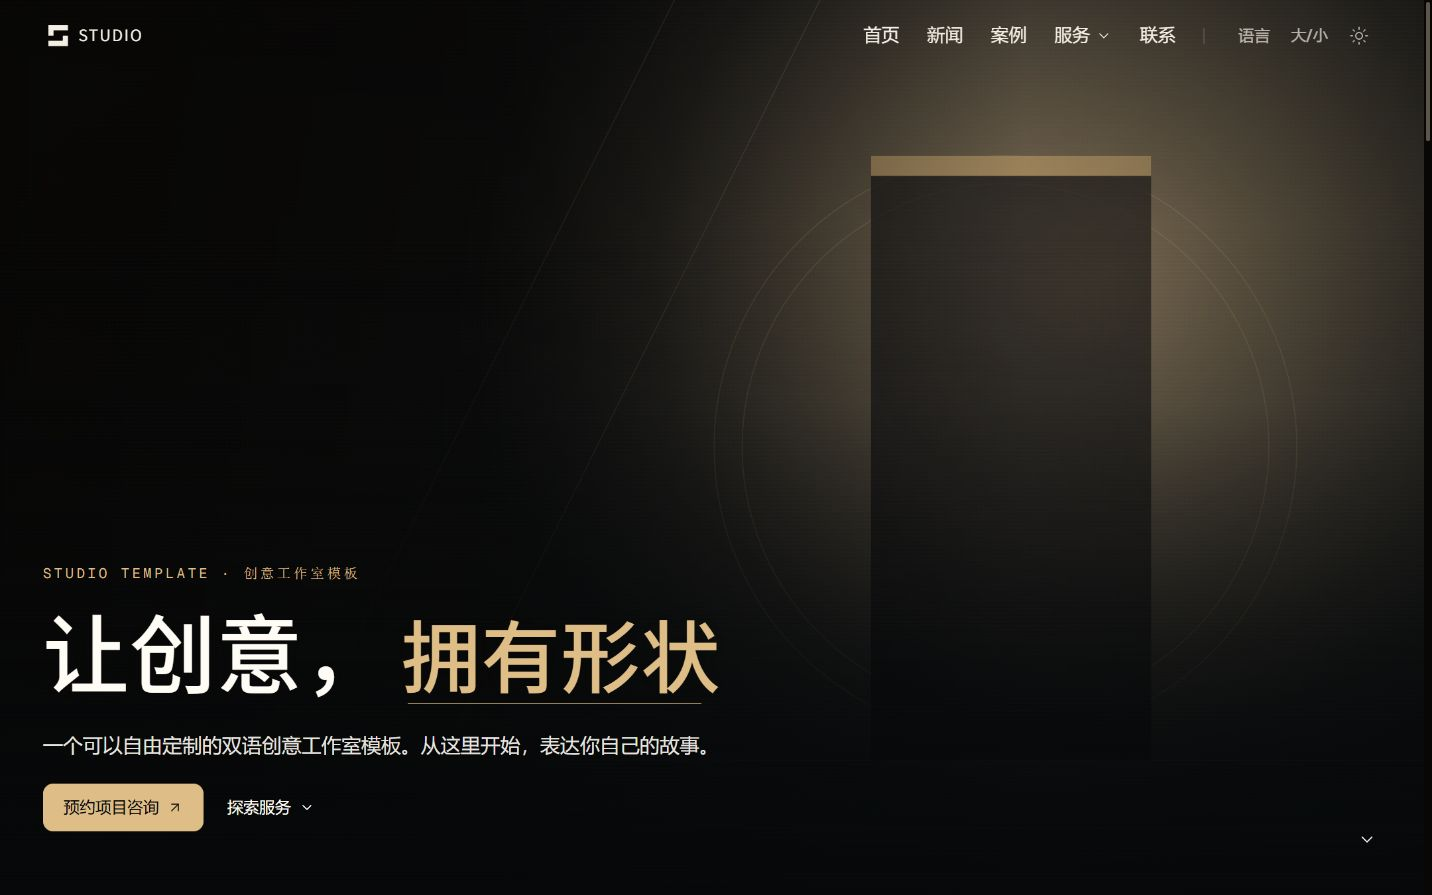
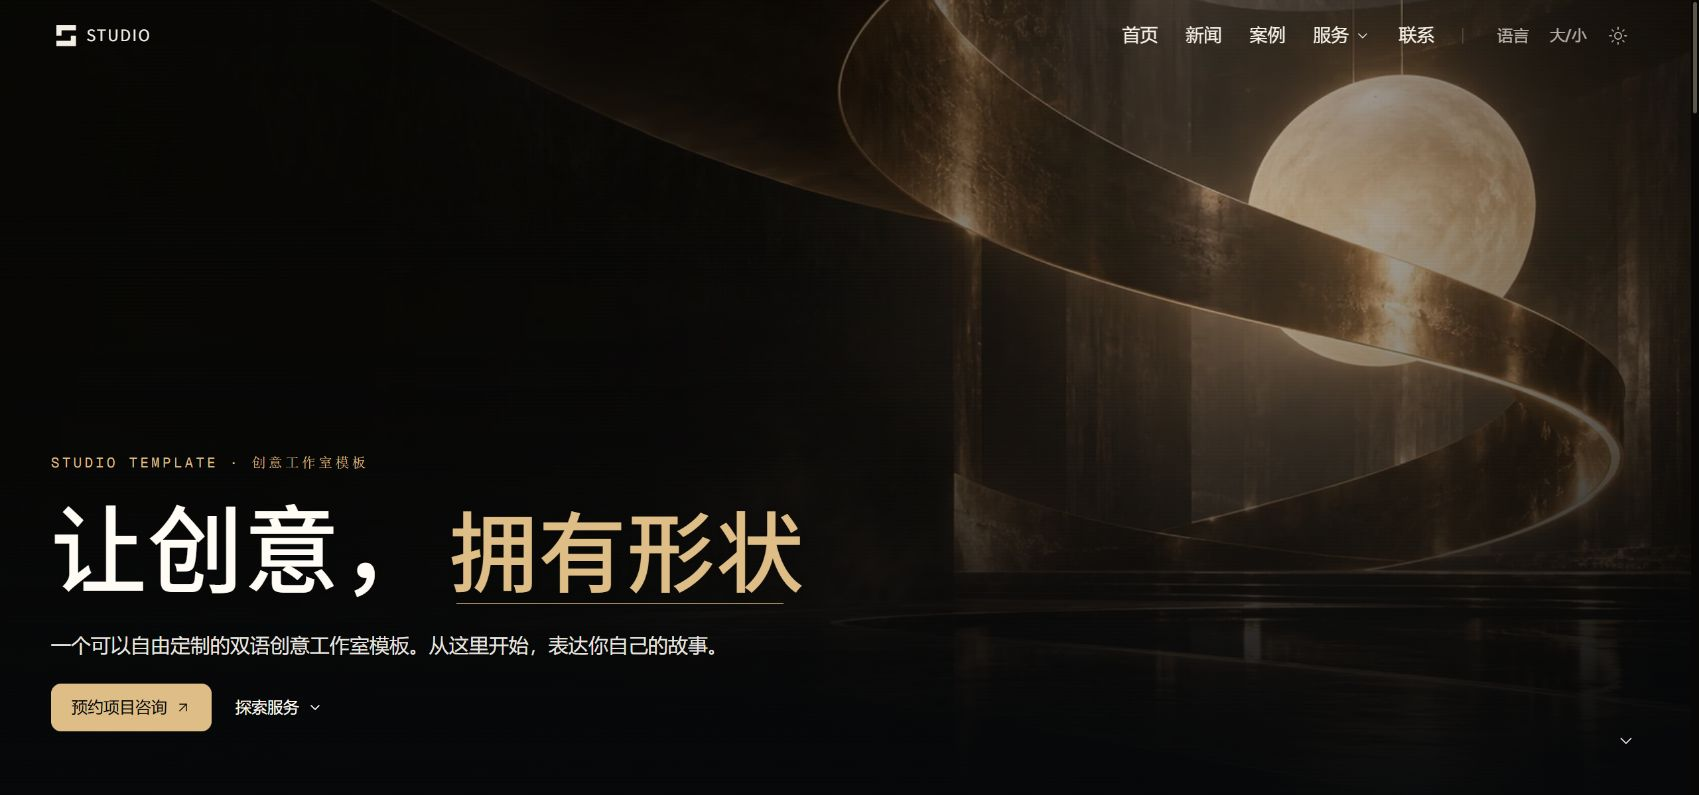
Replace placeholders with generated studio artwork

diff --git a/lib/i18n.ts b/lib/i18n.ts
@@ -92,7 +92,7 @@ export const messages = {
       title: "让每种视角，\n形成创作的合力",
       description: "在这个区域介绍你的团队与协作方式。下方资料仅用于演示展示框架。",
       selectedWorks: "代表作品",
-      people: {"creator1":{"name":"创意方向 · 示例","role":"团队展示模板","description":"在这里介绍团队职责与创作方法。此资料仅用于演示页面布局。","imageAlt":"抽象团队展示插画","works":[]},"creator2":{"name":"视觉设计 · 示例","role":"团队展示模板","description":"在这里介绍团队职责与创作方法。此资料仅用于演示页面布局。","imageAlt":"抽象团队展示插画","works":[]},"creator3":{"name":"制作协作 · 示例","role":"团队展示模板","description":"在这里介绍团队职责与创作方法。此资料仅用于演示页面布局。","imageAlt":"抽象团队展示插画","works":[]}},    },
+      people: {"creator1":{"name":"创意方向 · 示例","role":"团队展示模板","description":"在这里介绍团队职责与创作方法。此资料仅用于演示页面布局。","imageAlt":"光影中漂浮的金色织物与沙丘，AI 生成示例","works":[]},"creator2":{"name":"视觉设计 · 示例","role":"团队展示模板","description":"在这里介绍团队职责与创作方法。此资料仅用于演示页面布局。","imageAlt":"蓝色空间中的玻璃拱门与金属球，AI 生成示例","works":[]},"creator3":{"name":"制作协作 · 示例","role":"团队展示模板","description":"在这里介绍团队职责与创作方法。此资料仅用于演示页面布局。","imageAlt":"暖阳下的雕塑、素描本与创作工作台，AI 生成示例","works":[]}},    },
     process: {
       title: "专业团队，\n标准化流程",
       description: "导演、制片人、内容策略与 AI 技术团队共同工作。从创意内容到增长和平台项目，始终由同一套标准把控目标、质量与交付。",
@@ -206,7 +206,7 @@ export const messages = {
       title: "Different perspectives,\none creative direction.",
       description: "Introduce your team and collaboration here. The profiles below only demonstrate the layout.",
       selectedWorks: "Selected work",
-      people: {"creator1":{"name":"Creative Direction · Example","role":"Team profile template","description":"Introduce your team and creative approach. This profile is a layout example.","imageAlt":"Abstract team illustration","works":[]},"creator2":{"name":"Visual Design · Example","role":"Team profile template","description":"Introduce your team and creative approach. This profile is a layout example.","imageAlt":"Abstract team illustration","works":[]},"creator3":{"name":"Production · Example","role":"Team profile template","description":"Introduce your team and creative approach. This profile is a layout example.","imageAlt":"Abstract team illustration","works":[]}},    },
+      people: {"creator1":{"name":"Creative Direction · Example","role":"Team profile template","description":"Introduce your team and creative approach. This profile is a layout example.","imageAlt":"Golden fabric and dunes in cinematic light, AI-generated example","works":[]},"creator2":{"name":"Visual Design · Example","role":"Team profile template","description":"Introduce your team and creative approach. This profile is a layout example.","imageAlt":"Glass arches and a metal sphere in blue space, AI-generated example","works":[]},"creator3":{"name":"Production · Example","role":"Team profile template","description":"Introduce your team and creative approach. This profile is a layout example.","imageAlt":"A sunlit sculpture, sketchbook and creative desk, AI-generated example","works":[]}},    },
     process: {
       title: "An Expert Team.\nA Proven Process.",
       description: "Directors, producers, content strategists, and AI technologists work as one team. From creative content to growth and platform initiatives, one set of standards governs objectives, quality, and delivery.",

diff --git a/components/contact/ContactLeadPage.tsx b/components/contact/ContactLeadPage.tsx
@@ -27,8 +27,8 @@ const pageCopy = {
     heroLabel: "项目咨询",
     heroTitle: "把想法，变成\n值得被看见的作品",
     heroBody: "无论你已有完整脚本，还是只有一个模糊方向，都可以从这里开始。我们先理解目标，再给出可执行的内容路径。",
-    heroAlt: "黑色电影摄影棚中，一道金色光门通往充满想象力的影像世界",
-    processAlt: "导演工作台上的分镜、镜头和制作资料",
+    heroAlt: "黑金空间中的雕塑与发光球体，AI 生成示例",
+    processAlt: "暖阳下的雕塑、素描本与创作工作台，AI 生成示例",
     processTitle: "不需要先把一切想清楚",
     processBody: "一个业务目标、一段故事，甚至一句还没成形的描述，都足以成为开始。我们会与你一起判断创意方向、制作方式和交付边界。",
     steps: [
@@ -80,8 +80,8 @@ const pageCopy = {
     heroLabel: "Project Inquiry",
     heroTitle: "Turn ideas into\nwork worth seeing",
     heroBody: "Bring a finished script or just an early direction. We start by understanding the goal, then shape a practical path to production.",
-    heroAlt: "A golden portal opening into an imaginative film world inside a dark soundstage",
-    processAlt: "Storyboards, lenses, and production references on a director's worktable",
+    heroAlt: "A sculpture and luminous sphere in a dark gallery, AI-generated example",
+    processAlt: "A sunlit sculpture, sketchbook and creative desk, AI-generated example",
     processTitle: "You do not need every answer yet",
     processBody: "A business goal, a story, or one unfinished sentence is enough to begin. Together, we will clarify the creative direction, production approach, and delivery scope.",
     steps: [
@@ -186,7 +186,7 @@ export function ContactLeadPage() {
           aria-hidden="true"
         >
           <Image
-            src={withBasePath("/images/demo-scene.svg")}
+            src={withBasePath("/images/studio-hero.webp")}
             alt=""
             fill
             priority
@@ -220,7 +220,7 @@ export function ContactLeadPage() {
             className="relative min-h-[360px] overflow-hidden rounded-card border border-gold/15 sm:min-h-[500px] lg:hidden"
           >
             <Image
-              src={withBasePath("/images/demo-scene.svg")}
+              src={withBasePath("/images/studio-hero.webp")}
               alt={copy.heroAlt}
               fill
               priority
@@ -237,7 +237,7 @@ export function ContactLeadPage() {
           <div className="lg:sticky lg:top-24 lg:self-start">
             <div className="relative aspect-[4/5] overflow-hidden rounded-card border border-line/15">
               <Image
-                src={withBasePath("/images/demo-scene.svg")}
+                src={withBasePath("/images/creative-workshop.webp")}
                 alt={copy.processAlt}
                 fill
                 sizes="(min-width: 1024px) 36vw, 100vw"

diff --git a/components/home/HeroVideo.tsx b/components/home/HeroVideo.tsx
@@ -5,7 +5,7 @@ import { useReducedMotion } from "framer-motion";
 import type { HeroVideo as HeroVideoItem } from "@/types/hero-video";
 import { withBasePath } from "@/lib/base-path";
 
-const defaultPoster = "/images/demo-scene.svg";
+const defaultPoster = "/images/studio-hero.webp";
 
 type NavigatorWithConnection = Navigator & {
   connection?: { saveData?: boolean };
@@ -63,7 +63,7 @@ export function HeroVideo({ videos }: { videos: HeroVideoItem[] }) {
     <div className="absolute inset-0 bg-ink" aria-hidden="true">
       <picture>
         {/* eslint-disable-next-line @next/next/no-img-element */}
-        <img src={withBasePath("/images/demo-scene.svg")} alt="" width={1672} height={941} fetchPriority="high" loading="eager" className={`absolute inset-0 size-full object-cover object-[63%_center] transition-opacity duration-700 ${ready ? "opacity-0" : "opacity-100"}`} />
+        <img src={withBasePath("/images/studio-hero.webp")} alt="" width={1672} height={941} fetchPriority="high" loading="eager" className={`absolute inset-0 size-full object-cover object-[88%_center] sm:object-[63%_center] transition-opacity duration-700 ${ready ? "opacity-0" : "opacity-100"}`} />
       </picture>
       {source ? (
         <video

diff --git a/components/services/AigcTrainingLanding.tsx b/components/services/AigcTrainingLanding.tsx
@@ -174,7 +174,7 @@ function courseCoverUrl(cover: string) {
 
 function PublicCourseCover({ course }: { course: PublicCourse }) {
   const [failed, setFailed] = useState(false);
-  const source = failed ? withBasePath("/images/demo-scene.svg") : courseCoverUrl(course.cover);
+  const source = failed ? withBasePath("/images/creative-workshop.webp") : courseCoverUrl(course.cover);
 
   return (
     <Image
@@ -288,8 +288,8 @@ export function AigcTrainingLanding({ services, contact }: { services: ServiceNa
             transition={reduceMotion ? undefined : { duration: 14, ease: "easeInOut", repeat: Infinity }}
           >
             <Image
-              src={withBasePath("/images/demo-scene.svg")}
-              alt={locale === "zh" ? "老板电器 AIGC 品牌影片画面" : "A frame from the ROBAM AIGC brand film"}
+              src={withBasePath("/images/creative-workshop.webp")}
+              alt={locale === "zh" ? "暖阳下的创作工作台，AI 生成示例" : "A sunlit creative desk, AI-generated example"}
               fill
               priority
               sizes="100vw"

diff --git a/components/services/TrainingHeroScene.tsx b/components/services/TrainingHeroScene.tsx
@@ -1,4 +1,4 @@
 "use client";
 import Image from "next/image";
 import { withBasePath } from "@/lib/base-path";
-export function TrainingHeroScene({reduceMotion}:{reduceMotion:boolean|null}) { return <div className="absolute inset-y-0 right-[-12%] hidden w-[68%] lg:block" data-training-scene={reduceMotion ? "reduced" : "static"}><Image src={withBasePath("/images/demo-scene.svg")} alt="" fill sizes="68vw" className="object-cover"/><div className="absolute inset-0 bg-[rgb(var(--training-dark)/0.1)]"/></div>; }
+export function TrainingHeroScene({reduceMotion}:{reduceMotion:boolean|null}) { return <div className="absolute inset-y-0 right-[-12%] hidden w-[68%] lg:block" data-training-scene={reduceMotion ? "reduced" : "static"}><Image src={withBasePath("/images/creative-workshop.webp")} alt="" fill sizes="68vw" className="object-cover"/><div className="absolute inset-0 bg-[rgb(var(--training-dark)/0.1)]"/></div>; }

diff --git a/components/news/NewsArticle.tsx b/components/news/NewsArticle.tsx
@@ -43,8 +43,8 @@ export function NewsArticle({ article }: { article: NewsArticleData }) {
           </div>
           <div className="mt-10 sm:mt-14">
             <Image
-              src={withBasePath("/images/demo-scene.svg")}
-              alt={locale === "zh" ? "Studio Template微信公众号二维码，可在微信搜索“Studio Template”关注" : "studio WeChat account QR code; search for Studio Template in WeChat to follow"}
+              src={withBasePath("/images/visual-storytelling.webp")}
+              alt={locale === "zh" ? "金色织物与光影构成的示例画面" : "Example image of golden fabric and cinematic light"}
               width={1080}
               height={396}
               sizes="(max-width: 864px) calc(100vw - 40px), 800px"

diff --git a/lib/director-team.ts b/lib/director-team.ts
@@ -1,5 +1,5 @@
 export const directorTeam = [
-  {key:"creator1",image:"/images/demo-scene.svg",imagePosition:"50% 50%"},
-  {key:"creator2",image:"/images/demo-scene.svg",imagePosition:"50% 50%"},
-  {key:"creator3",image:"/images/demo-scene.svg",imagePosition:"50% 50%"}
+  { key: "creator1", image: "/images/visual-storytelling.webp", imagePosition: "50% 50%" },
+  { key: "creator2", image: "/images/digital-experiences.webp", imagePosition: "50% 50%" },
+  { key: "creator3", image: "/images/creative-workshop.webp", imagePosition: "50% 50%" }
 ] as const;

diff --git a/README.md b/README.md
@@ -52,7 +52,7 @@ npm run start
 | News articles | `lib/news.ts`, `lib/news-imported.json`; match article IDs in both files |
 | Logo, colors and fonts | `components/brand/BrandLogo.tsx`, `app/globals.css`, `tailwind.config.ts`, `app/layout.tsx` |
 
-The bundled abstract SVG is an original placeholder, not a client asset. Team profiles are explicitly labeled examples. Add your own authorized media and replace sample text before launching a real business site. The workshop service demonstrates a course layout; it has no bundled courses, activities or project videos.
+The bundled hero and service artwork were generated with the built-in image_gen tool for this template and optimized as WebP. They are generic sample artwork, not real client work. The generation prompts are recorded in [docs/image-prompts.json](docs/image-prompts.json). Team profiles are explicitly labeled examples. Add your own authorized media and replace sample text before launching a real business site. The workshop service demonstrates a course layout; it has no bundled courses, activities or project videos.
 
 ## Optional integrations
 

diff --git a/THIRD_PARTY_NOTICES.md b/THIRD_PARTY_NOTICES.md
@@ -6,4 +6,4 @@ Playfair Display, Noto Sans SC and Noto Serif SC are loaded through next/font/go
 
 npm dependencies retain their own license terms, including Next.js / React / Tailwind CSS / Framer Motion / Lenis / Nodemailer / Sharp (MIT) and Lucide (ISC). Consult each installed package for its complete license. The project's MIT license does not replace dependency licenses.
 
-The bundled logo and abstract scene are code-drawn placeholders. No original company logo, client media, personal portraits or project videos are included.
+The bundled logo and fallback SVG are code-drawn placeholders. Hero and service artwork are AI-generated sample images; prompts are included in docs/image-prompts.json. No original company logo, client media, personal portraits or project videos are included.
